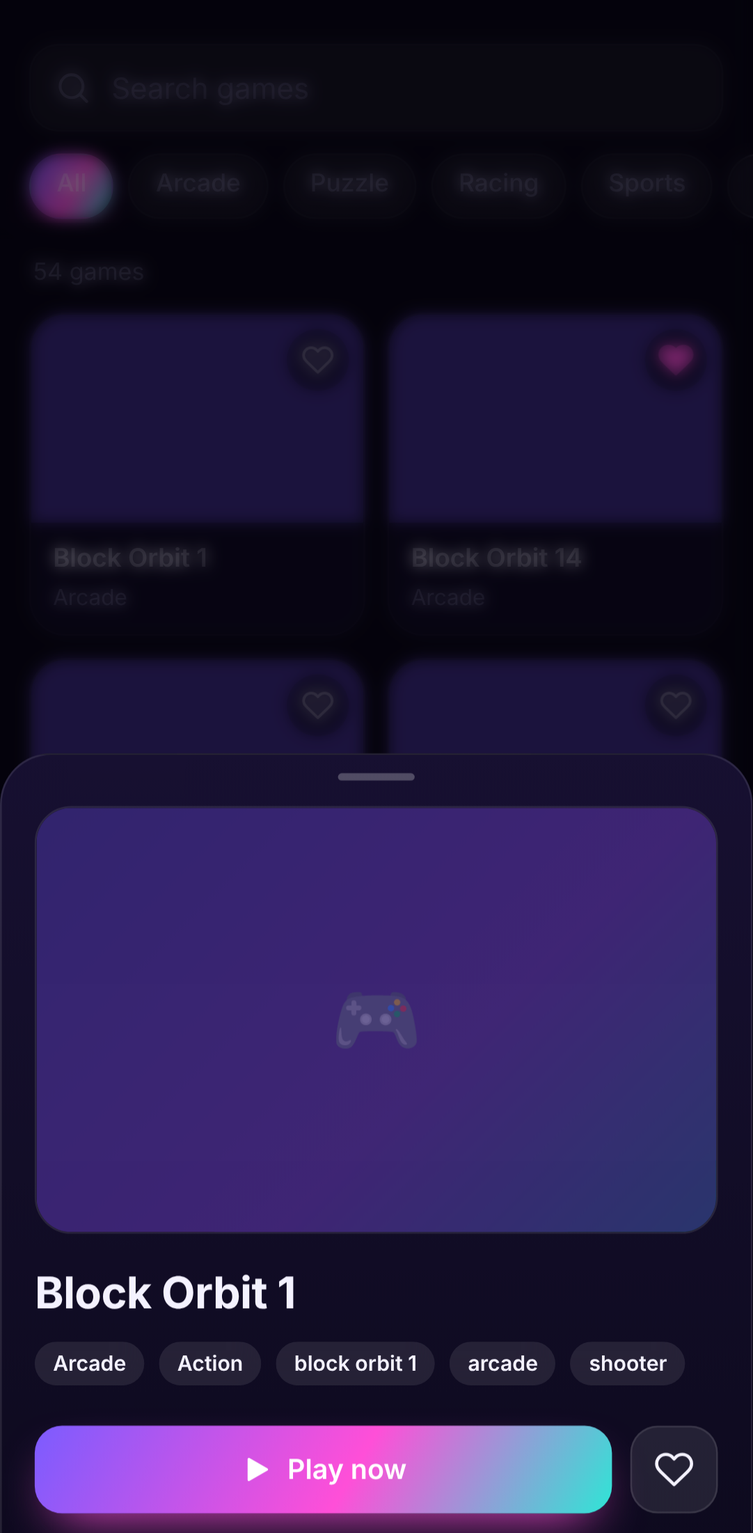
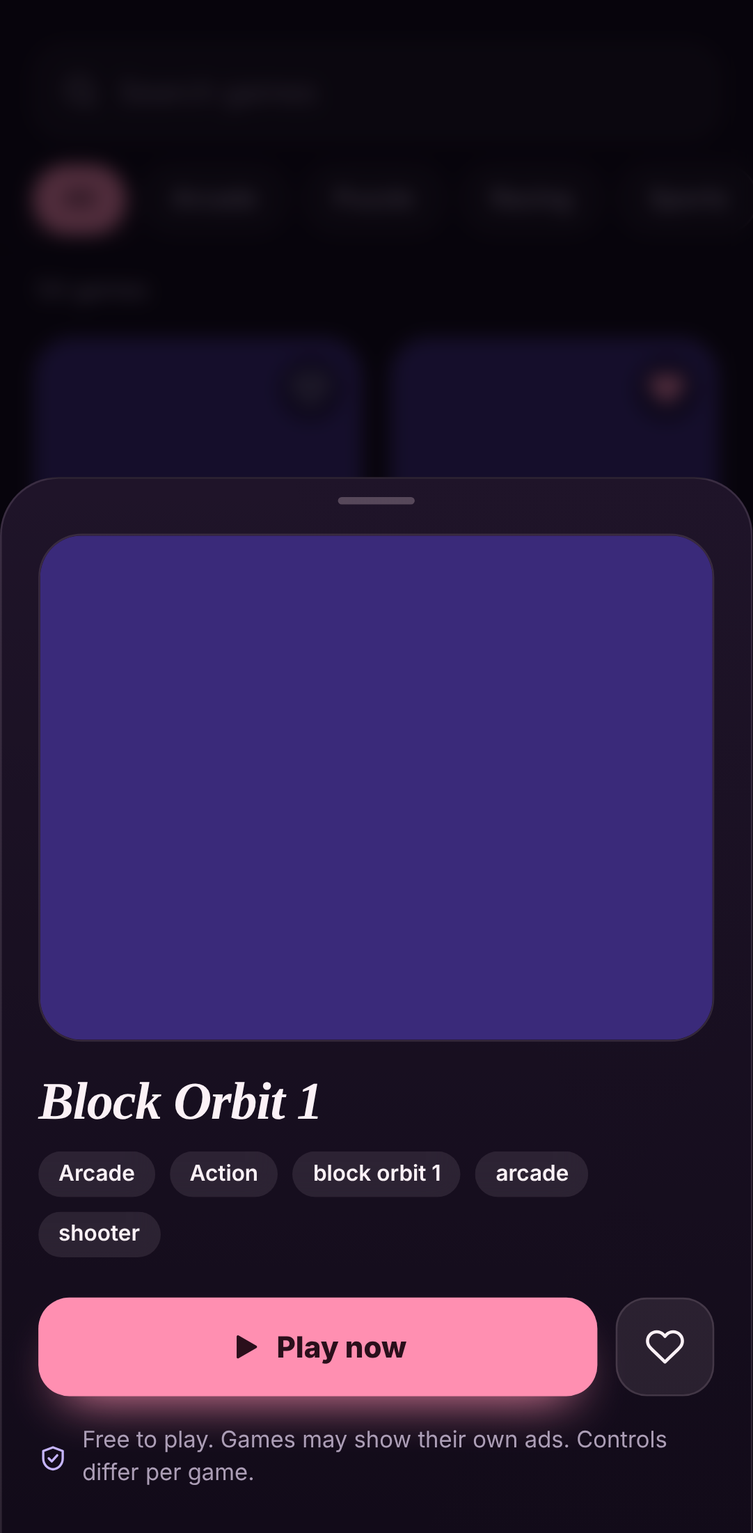
Ella Gaming Mini App: new look (aubergine + rose quartz, serif italic titles, poster-style Featured cards, floating nav, per-category hues); tests pin verified_only policy
Claude-Session: https://claude.ai/code/session_013hT9kj3tvig69JEjfi7Dq2

diff --git a/ella_gaming/web/css/app.css b/ella_gaming/web/css/app.css
@@ -1,187 +1,192 @@
-/* Ella Gaming - original design. Dark, aurora gradients, glass surfaces. No inline styles are used (strict CSP). */
+/* Ella Gaming - aubergine & rose quartz. Dark plum ground, one blush accent, serif italic for the voice. No inline styles are used (strict CSP). */
 :root{
-  --bg:#07060f; --bg2:#0d0a1d; --surface:rgba(255,255,255,.055); --surface2:rgba(255,255,255,.09); --line:rgba(255,255,255,.1);
-  --text:#f4f2ff; --muted:#a49fc4; --violet:#7c5cff; --magenta:#ff4fd8; --cyan:#2ee6d6; --danger:#ff6b81; --ok:#46e6a0;
-  --grad:linear-gradient(120deg,var(--violet),var(--magenta) 55%,var(--cyan));
-  --radius:20px; --nav-h:68px;
+  --bg:#0c0811; --bg2:#160f1f; --surface:rgba(255,232,243,.05); --surface2:rgba(255,232,243,.095); --line:rgba(255,226,240,.12);
+  --text:#fbf1f6; --muted:#ac9eb6; --rose:#ff8fb1; --rose-d:#2a0f1b; --peach:#ffcfa0; --lilac:#c6b5ff; --danger:#ff6b81; --ok:#6fe3b0;
+  --radius:22px; --nav-h:64px;
   --safe-t:max(env(safe-area-inset-top,0px),var(--tg-safe-area-inset-top,0px) + var(--tg-content-safe-area-inset-top,0px));
   --safe-b:max(env(safe-area-inset-bottom,0px),var(--tg-safe-area-inset-bottom,0px));
-  --display:'Sora',system-ui,-apple-system,'Segoe UI',Roboto,sans-serif; --body:'Inter',system-ui,-apple-system,'Segoe UI',Roboto,sans-serif;
+  --display:'Fraunces',Georgia,'Times New Roman',serif; --body:'Manrope',system-ui,-apple-system,'Segoe UI',Roboto,sans-serif;
 }
 *{box-sizing:border-box;-webkit-tap-highlight-color:transparent}
-html,body{margin:0;background:var(--bg);color:var(--text);font-family:var(--body);font-size:15px;line-height:1.45;overscroll-behavior:none}
+html,body{margin:0;background:var(--bg);color:var(--text);font-family:var(--body);font-size:15px;line-height:1.5;overscroll-behavior:none}
 body{min-height:100dvh;overflow-x:hidden}
 button{font:inherit;color:inherit;background:none;border:0;padding:0;cursor:pointer;touch-action:manipulation}
 input{font:inherit;color:inherit}
 img{display:block}
 [hidden]{display:none!important}
-h1,h2,h3{font-family:var(--display);margin:0;letter-spacing:-.01em}
-:focus-visible{outline:2px solid var(--cyan);outline-offset:2px;border-radius:10px}
+h1,h2,h3{font-family:var(--display);margin:0;letter-spacing:-.015em;font-weight:600}
+:focus-visible{outline:2px solid var(--rose);outline-offset:2px;border-radius:10px}
 
-.aurora{position:fixed;inset:0;z-index:-1;overflow:hidden;background:radial-gradient(120% 80% at 50% -10%,#1a1140 0,var(--bg) 60%)}
-.aurora i{position:absolute;width:70vmax;height:70vmax;border-radius:50%;filter:blur(90px);opacity:.28;animation:drift 22s ease-in-out infinite alternate}
-.aurora i:nth-child(1){background:var(--violet);left:-30vmax;top:-25vmax}
-.aurora i:nth-child(2){background:var(--magenta);right:-40vmax;top:20vmax;opacity:.16;animation-duration:28s}
-.aurora i:nth-child(3){background:var(--cyan);left:-20vmax;bottom:-45vmax;opacity:.13;animation-duration:34s}
-@keyframes drift{to{transform:translate3d(6vmax,4vmax,0) scale(1.12)}}
+/* two still glows behind everything - no animation, nothing competing with the games */
+.aurora{position:fixed;inset:0;z-index:-1;overflow:hidden;background:var(--bg)}
+.aurora i{position:absolute;border-radius:50%;filter:blur(110px)}
+.aurora i:nth-child(1){width:80vmax;height:80vmax;right:-45vmax;top:-40vmax;background:#ff8fb1;opacity:.17}
+.aurora i:nth-child(2){width:70vmax;height:70vmax;left:-45vmax;bottom:-40vmax;background:#9a7bff;opacity:.13}
+.aurora i:nth-child(3){display:none}
 
-.view{padding:calc(var(--safe-t) + 14px) 16px calc(var(--nav-h) + var(--safe-b) + 28px);max-width:760px;margin:0 auto;animation:rise .45s cubic-bezier(.2,.8,.2,1)}
-@keyframes rise{from{opacity:0;transform:translateY(10px)}}
+.view{padding:calc(var(--safe-t) + 14px) 18px calc(var(--nav-h) + var(--safe-b) + 44px);max-width:760px;margin:0 auto;animation:fade .3s ease-out}
+@keyframes fade{from{opacity:0}}
 
 /* ---------- top bar & greeting */
-.topbar{display:flex;align-items:center;justify-content:space-between;gap:12px;margin-bottom:18px}
-.brand{display:flex;align-items:center;gap:10px;font-family:var(--display);font-weight:700;font-size:17px}
+.topbar{display:flex;align-items:center;justify-content:space-between;gap:12px;margin-bottom:22px}
+.brand{display:flex;align-items:center;gap:10px;font-family:var(--display);font-style:italic;font-weight:600;font-size:21px;letter-spacing:-.01em}
 .brand img{width:34px;height:34px;border-radius:11px}
-.brand b{background:var(--grad);-webkit-background-clip:text;background-clip:text;color:transparent}
-.avatar{width:40px;height:40px;border-radius:50%;object-fit:cover;display:grid;place-items:center;font-family:var(--display);font-weight:700;background:var(--grad);color:#fff;border:2px solid rgba(255,255,255,.18);overflow:hidden;flex:none}
-.avatar.lg{width:92px;height:92px;font-size:34px;border-width:3px}
-.greet small{color:var(--muted);font-size:14px}
-.greet h1{font-size:28px;line-height:1.15;margin-top:2px}
-.greet h1 span{background:var(--grad);-webkit-background-clip:text;background-clip:text;color:transparent}
-.tagline{color:var(--muted);margin:6px 0 16px}
+.brand b{font-weight:600}
+.avatar{width:42px;height:42px;border-radius:50%;object-fit:cover;display:grid;place-items:center;font-family:var(--display);font-weight:700;background:linear-gradient(135deg,var(--rose),var(--peach));color:var(--rose-d);border:2px solid rgba(255,226,240,.3);overflow:hidden;flex:none}
+.avatar.lg{width:96px;height:96px;font-size:36px;border-width:3px}
+.greet small{color:var(--muted);font-size:14px;font-weight:500}
+.greet h1{font-size:38px;line-height:1.08;margin-top:4px;font-style:italic;font-weight:600}
+.greet h1 span{color:var(--text)}
+.tagline{color:var(--muted);margin:8px 0 18px}
 
 .search{position:relative;display:flex;align-items:center}
-.search svg{position:absolute;left:14px;width:20px;height:20px;color:var(--muted);pointer-events:none}
-.search input{width:100%;height:48px;border-radius:16px;border:1px solid var(--line);background:var(--surface);padding:0 44px 0 44px;outline:none;transition:border-color .2s,background .2s,box-shadow .2s;font-size:16px}
-.search input::placeholder{color:#8b86ad}
-.search input:focus{border-color:rgba(124,92,255,.8);background:var(--surface2);box-shadow:0 0 0 4px rgba(124,92,255,.18)}
-.search .clear{position:absolute;right:6px;width:36px;height:36px;display:grid;place-items:center;color:var(--muted)}
+.search svg{position:absolute;left:16px;width:20px;height:20px;color:var(--muted);pointer-events:none}
+.search input{width:100%;height:52px;border-radius:18px;border:1px solid var(--line);background:var(--surface);padding:0 46px;outline:none;transition:border-color .2s,background .2s,box-shadow .2s;font-size:16px}
+.search input::placeholder{color:#8d7f98}
+.search input:focus{border-color:rgba(255,143,177,.75);background:var(--surface2);box-shadow:0 0 0 4px rgba(255,143,177,.15)}
+.search .clear{position:absolute;right:7px;width:38px;height:38px;display:grid;place-items:center;color:var(--muted)}
 .search .clear svg{position:static;width:18px;height:18px}
 
 /* ---------- sections */
-.section{margin-top:26px}
-.sec-head{display:flex;align-items:baseline;justify-content:space-between;margin-bottom:12px}
-.sec-head h2{font-size:18px}
-.sec-head button{color:var(--cyan);font-size:13px;font-weight:600}
-.rail{display:flex;gap:12px;overflow-x:auto;scroll-snap-type:x proximity;margin:0 -16px;padding:2px 16px 6px;scrollbar-width:none}
+.section{margin-top:32px}
+.sec-head{display:flex;align-items:baseline;justify-content:space-between;margin-bottom:14px}
+.sec-head h2{font-size:23px}
+.sec-head button{color:var(--rose);font-size:13.5px;font-weight:700}
+.rail{display:flex;gap:14px;overflow-x:auto;scroll-snap-type:x proximity;margin:0 -18px;padding:2px 18px 8px;scrollbar-width:none}
 .rail::-webkit-scrollbar{display:none}
 .rail>*{scroll-snap-align:start;flex:none}
 
 /* ---------- cards */
 .card{position:relative;display:block;text-align:left;width:100%;border-radius:var(--radius);overflow:hidden;background:var(--bg2);border:1px solid var(--line);transition:transform .18s,border-color .2s,box-shadow .2s}
 .card:active{transform:scale(.97)}
-@media (hover:hover){.card:hover{transform:translateY(-3px);border-color:rgba(255,255,255,.28);box-shadow:0 14px 34px -14px rgba(124,92,255,.6)}}
-.thumb{position:relative;aspect-ratio:16/10;background:linear-gradient(135deg,#251a5a,#4a1d6b 60%,#0e4c55);display:grid;place-items:center;font-size:40px;overflow:hidden}
-.thumb img{position:absolute;inset:0;width:100%;height:100%;object-fit:cover;opacity:0;transition:opacity .35s}
+@media (hover:hover){.card:hover{transform:translateY(-3px);border-color:rgba(255,143,177,.45);box-shadow:0 18px 38px -18px rgba(255,143,177,.55)}}
+.thumb{position:relative;aspect-ratio:4/3;background:linear-gradient(145deg,#2c1a3b,#43203f 55%,#2b2147);display:grid;place-items:center;font-size:42px;overflow:hidden}
+.thumb img{position:absolute;inset:0;width:100%;height:100%;object-fit:cover;opacity:0;transition:opacity .4s}
 .thumb img.ready{opacity:1}
-.card .meta{padding:10px 12px 12px}
-.card .name{font-family:var(--display);font-weight:600;font-size:14px;white-space:nowrap;overflow:hidden;text-overflow:ellipsis}
-.card .sub{color:var(--muted);font-size:12px;margin-top:2px;white-space:nowrap;overflow:hidden;text-overflow:ellipsis}
-.card.sm{width:150px}
-.card.feat{width:min(78vw,320px)}
-.card.feat .thumb{aspect-ratio:16/10}
-.card.feat .shade{position:absolute;inset:0;background:linear-gradient(180deg,transparent 35%,rgba(7,6,15,.92));display:flex;flex-direction:column;justify-content:flex-end;padding:14px}
-.card.feat .name{font-size:18px}
-.card.feat .pill{align-self:flex-start;margin-bottom:8px}
-.pill{display:inline-flex;align-items:center;gap:6px;height:24px;padding:0 10px;border-radius:99px;font-size:11.5px;font-weight:600;background:rgba(255,255,255,.14);backdrop-filter:blur(8px);-webkit-backdrop-filter:blur(8px)}
-.heart{position:absolute;top:8px;right:8px;width:34px;height:34px;border-radius:50%;display:grid;place-items:center;background:rgba(7,6,15,.55);backdrop-filter:blur(8px);-webkit-backdrop-filter:blur(8px);color:#fff;z-index:2}
+.card .meta{padding:11px 14px 14px}
+.card .name{font-family:var(--display);font-weight:600;font-size:15px;white-space:nowrap;overflow:hidden;text-overflow:ellipsis}
+.card .sub{color:var(--muted);font-size:12.5px;margin-top:2px;white-space:nowrap;overflow:hidden;text-overflow:ellipsis}
+.card.sm{width:158px}
+/* featured = the poster: the one big, loud thing on the page */
+.card.feat{width:min(80vw,330px);border-radius:28px;border-color:rgba(255,226,240,.18);box-shadow:0 24px 50px -26px rgba(255,143,177,.45)}
+.card.feat .thumb{aspect-ratio:4/5}
+.card.feat .shade{position:absolute;inset:0;background:linear-gradient(180deg,rgba(12,8,17,0) 38%,rgba(12,8,17,.92) 92%);display:flex;flex-direction:column;justify-content:flex-end;padding:18px;padding-right:76px}
+.card.feat .shade::after{content:"\25B6\FE0E";position:absolute;right:16px;bottom:16px;width:46px;height:46px;border-radius:50%;display:grid;place-items:center;background:var(--rose);color:var(--rose-d);font-size:15px;padding-left:2px;box-shadow:0 10px 24px -8px rgba(255,143,177,.9)}
+.card.feat .name{font-size:23px;line-height:1.15;font-style:italic;white-space:normal;display:-webkit-box;-webkit-line-clamp:2;-webkit-box-orient:vertical}
+.card.feat .pill{align-self:flex-start;margin-bottom:10px}
+.pill{display:inline-flex;align-items:center;gap:6px;height:25px;padding:0 11px;border-radius:99px;font-size:12px;font-weight:600;background:rgba(255,232,243,.14);backdrop-filter:blur(8px);-webkit-backdrop-filter:blur(8px)}
+.heart{position:absolute;top:10px;right:10px;width:36px;height:36px;border-radius:50%;display:grid;place-items:center;background:rgba(12,8,17,.5);backdrop-filter:blur(8px);-webkit-backdrop-filter:blur(8px);color:#fff;z-index:2}
 .heart svg{width:18px;height:18px;transition:transform .2s}
-.heart[aria-pressed=true]{color:var(--magenta)}
+.heart[aria-pressed=true]{color:var(--rose)}
 .heart[aria-pressed=true] svg{fill:currentColor;transform:scale(1.12)}
-.grid{display:grid;grid-template-columns:repeat(2,1fr);gap:12px}
+.grid{display:grid;grid-template-columns:repeat(2,minmax(0,1fr));gap:14px}
 @media (min-width:560px){.grid{grid-template-columns:repeat(3,1fr)}}
 
-/* ---------- categories */
-.cats{display:grid;grid-template-columns:repeat(3,1fr);gap:10px}
-.cat{display:flex;flex-direction:column;align-items:flex-start;gap:8px;padding:12px;border-radius:18px;background:var(--surface);border:1px solid var(--line);text-align:left;transition:transform .18s,background .2s}
-.cat:active{transform:scale(.96)}
-.cat .ico{width:36px;height:36px;border-radius:12px;display:grid;place-items:center;background:var(--grad);color:#fff}
-.cat .ico svg{width:20px;height:20px}
-.cat b{font-family:var(--display);font-size:13px;font-weight:600}
-.cat small{color:var(--muted);font-size:11.5px;margin-top:-6px}
-.chips{display:flex;gap:8px;overflow-x:auto;scrollbar-width:none;margin:0 -16px;padding:2px 16px}
+/* ---------- categories: each one gets its own quiet hue */
+.cats{display:grid;grid-template-columns:repeat(2,minmax(0,1fr));gap:10px}
+.cat{--h:340;display:flex;align-items:center;gap:12px;padding:12px 14px;border-radius:20px;background:var(--surface);border:1px solid var(--line);text-align:left;transition:transform .18s,background .2s}
+.cat:nth-child(12n+2){--h:28}.cat:nth-child(12n+3){--h:48}.cat:nth-child(12n+4){--h:150}.cat:nth-child(12n+5){--h:190}.cat:nth-child(12n+6){--h:215}
+.cat:nth-child(12n+7){--h:258}.cat:nth-child(12n+8){--h:285}.cat:nth-child(12n+9){--h:310}.cat:nth-child(12n+10){--h:8}.cat:nth-child(12n+11){--h:100}.cat:nth-child(12n+12){--h:172}
+.cat:active{transform:scale(.97)}
+@media (hover:hover){.cat:hover{background:var(--surface2)}}
+.cat .ico{width:42px;height:42px;border-radius:14px;display:grid;place-items:center;flex:none;background:hsl(var(--h) 90% 75% / .16);color:hsl(var(--h) 95% 82%)}
+.cat .ico svg{width:21px;height:21px}
+.cat .txt{min-width:0;flex:1}
+.cat b{display:block;white-space:nowrap;overflow:hidden;text-overflow:ellipsis;font-family:var(--display);font-size:15px;font-weight:600;line-height:1.2}
+.cat small{display:block;color:var(--muted);font-size:12px}
+.chips{display:flex;gap:8px;overflow-x:auto;scrollbar-width:none;margin:0 -18px;padding:2px 18px}
 .chips::-webkit-scrollbar{display:none}
-.chip{flex:none;height:36px;padding:0 14px;border-radius:99px;border:1px solid var(--line);background:var(--surface);font-size:13.5px;font-weight:500;color:var(--muted);transition:all .2s;white-space:nowrap}
-.chip[aria-pressed=true]{background:var(--grad);color:#fff;border-color:transparent;box-shadow:0 8px 22px -10px var(--magenta)}
-.sticky{position:sticky;top:0;z-index:5;margin:0 -16px;padding:calc(var(--safe-t) + 10px) 16px 12px;background:linear-gradient(var(--bg) 70%,rgba(7,6,15,0))}
-.sticky .chips{margin-top:10px}
-.count{color:var(--muted);font-size:13px;margin:6px 2px 12px}
-.notice{margin:0 0 12px;padding:10px 14px;border-radius:14px;background:rgba(124,92,255,.14);border:1px solid rgba(124,92,255,.35);font-size:13px;color:#d9d2ff}
+.chip{flex:none;height:38px;padding:0 16px;border-radius:99px;border:1px solid var(--line);background:var(--surface);font-size:13.5px;font-weight:600;color:var(--muted);transition:all .2s;white-space:nowrap}
+.chip[aria-pressed=true]{background:var(--rose);color:var(--rose-d);border-color:transparent;box-shadow:0 8px 22px -10px var(--rose)}
+.sticky{position:sticky;top:0;z-index:5;margin:0 -18px;padding:calc(var(--safe-t) + 10px) 18px 14px;background:linear-gradient(var(--bg) 72%,rgba(12,8,17,0))}
+.sticky .chips{margin-top:12px}
+.count{color:var(--muted);font-size:13px;margin:6px 2px 14px}
+.notice{margin:0 0 14px;padding:11px 15px;border-radius:16px;background:rgba(255,143,177,.1);border:1px solid rgba(255,143,177,.3);font-size:13px;color:#ffd7e4}
 
 /* ---------- states */
-.skel{position:relative;overflow:hidden;background:var(--surface);border-radius:var(--radius);aspect-ratio:16/12}
-.skel::after{content:"";position:absolute;inset:0;background:linear-gradient(100deg,transparent 30%,rgba(255,255,255,.09) 50%,transparent 70%);transform:translateX(-100%);animation:shimmer 1.3s infinite}
+.skel{position:relative;overflow:hidden;background:var(--surface);border-radius:var(--radius);aspect-ratio:4/3.4}
+.skel::after{content:"";position:absolute;inset:0;background:linear-gradient(100deg,transparent 30%,rgba(255,232,243,.08) 50%,transparent 70%);transform:translateX(-100%);animation:shimmer 1.3s infinite}
 @keyframes shimmer{to{transform:translateX(100%)}}
-.state{display:flex;flex-direction:column;align-items:center;text-align:center;gap:10px;padding:42px 20px;color:var(--muted)}
-.state svg{width:44px;height:44px;color:var(--violet)}
-.state h3{color:var(--text);font-size:18px}
+.state{display:flex;flex-direction:column;align-items:center;text-align:center;gap:10px;padding:44px 20px;color:var(--muted)}
+.state svg{width:44px;height:44px;color:var(--rose)}
+.state h3{color:var(--text);font-size:21px}
 .state p{margin:0;max-width:300px}
-.empty-card{padding:18px;border-radius:var(--radius);border:1px dashed rgba(255,255,255,.2);color:var(--muted);font-size:14px;display:flex;gap:12px;align-items:center}
-.empty-card svg{width:26px;height:26px;flex:none;color:var(--magenta)}
-.btn{display:inline-flex;align-items:center;justify-content:center;gap:8px;height:48px;padding:0 22px;border-radius:15px;font-family:var(--display);font-weight:600;font-size:15px;background:var(--grad);color:#fff;box-shadow:0 12px 28px -12px var(--magenta);transition:transform .15s,filter .2s}
+.empty-card{padding:18px;border-radius:var(--radius);border:1px dashed rgba(255,226,240,.22);color:var(--muted);font-size:14px;display:flex;gap:12px;align-items:center}
+.empty-card svg{width:26px;height:26px;flex:none;color:var(--rose)}
+.btn{display:inline-flex;align-items:center;justify-content:center;gap:8px;height:50px;padding:0 24px;border-radius:17px;font-family:var(--body);font-weight:800;font-size:15px;background:var(--rose);color:var(--rose-d);box-shadow:0 14px 28px -14px var(--rose);transition:transform .15s,filter .2s}
 .btn:active{transform:scale(.97)}
-.btn.ghost{background:var(--surface2);box-shadow:none;border:1px solid var(--line)}
+.btn:disabled{opacity:.55;box-shadow:none}
+.btn.ghost{background:var(--surface2);color:var(--text);box-shadow:none;border:1px solid var(--line)}
 .btn svg{width:18px;height:18px}
 .btn.block{width:100%}
 
-/* ---------- navigation */
-.nav{position:fixed;left:0;right:0;bottom:0;z-index:20;display:flex;justify-content:space-around;align-items:center;height:calc(var(--nav-h) + var(--safe-b));padding:6px 14px var(--safe-b);background:rgba(10,8,24,.78);backdrop-filter:blur(20px) saturate(1.4);-webkit-backdrop-filter:blur(20px) saturate(1.4);border-top:1px solid var(--line)}
-.nav-btn{flex:1;max-width:160px;height:54px;border-radius:16px;display:flex;flex-direction:column;align-items:center;justify-content:center;gap:3px;color:var(--muted);font-size:11.5px;font-weight:600;transition:color .2s}
-.nav-btn svg{width:23px;height:23px;transition:transform .25s}
-.nav-btn[aria-current=page]{color:#fff}
-.nav-btn[aria-current=page] svg{transform:translateY(-1px) scale(1.1);color:var(--magenta);filter:drop-shadow(0 0 8px rgba(255,79,216,.6))}
+/* ---------- navigation: a floating pill */
+.nav{position:fixed;left:16px;right:16px;bottom:calc(10px + var(--safe-b));z-index:20;max-width:420px;margin:0 auto;display:flex;justify-content:space-between;align-items:center;height:var(--nav-h);padding:6px;border-radius:26px;background:rgba(22,14,31,.82);backdrop-filter:blur(22px) saturate(1.5);-webkit-backdrop-filter:blur(22px) saturate(1.5);border:1px solid var(--line);box-shadow:0 18px 40px -12px rgba(0,0,0,.7)}
+.nav-btn{flex:1;height:52px;border-radius:20px;display:flex;align-items:center;justify-content:center;gap:7px;color:var(--muted);font-size:13px;font-weight:700;transition:background .25s,color .25s}
+.nav-btn svg{width:22px;height:22px}
+.nav-btn[aria-current=page]{color:var(--rose-d);background:var(--rose)}
 
 /* ---------- sheet */
-.backdrop{position:fixed;inset:0;z-index:40;background:rgba(3,2,10,.66);backdrop-filter:blur(4px);-webkit-backdrop-filter:blur(4px);animation:fade .25s}
-.sheet{position:fixed;left:0;right:0;bottom:0;z-index:41;max-width:560px;margin:0 auto;border-radius:28px 28px 0 0;background:linear-gradient(180deg,#171031,#0d0a1d);border:1px solid var(--line);border-bottom:0;padding:10px 18px calc(20px + var(--safe-b));animation:slide .32s cubic-bezier(.2,.8,.2,1);max-height:92dvh;overflow:auto}
-.sheet .grab{width:42px;height:4px;border-radius:9px;background:rgba(255,255,255,.25);margin:0 auto 14px}
-.sheet .hero{border-radius:20px;overflow:hidden;border:1px solid var(--line)}
-.sheet h2{font-size:24px;margin:16px 0 8px}
+.backdrop{position:fixed;inset:0;z-index:40;background:rgba(6,3,10,.7);backdrop-filter:blur(5px);-webkit-backdrop-filter:blur(5px);animation:fade .25s}
+.sheet{position:fixed;left:0;right:0;bottom:0;z-index:41;max-width:560px;margin:0 auto;border-radius:32px 32px 0 0;background:linear-gradient(180deg,#1f1429,#120b19);border:1px solid var(--line);border-bottom:0;padding:10px 20px calc(22px + var(--safe-b));animation:slide .34s cubic-bezier(.2,.8,.2,1);max-height:92dvh;overflow:auto}
+.sheet .grab{width:42px;height:4px;border-radius:9px;background:rgba(255,226,240,.25);margin:0 auto 16px}
+.sheet .hero{border-radius:24px;overflow:hidden;border:1px solid var(--line)}
+.sheet h2{font-size:29px;font-style:italic;margin:18px 0 10px;line-height:1.1}
 .tags{display:flex;gap:8px;flex-wrap:wrap}
 .tags .pill{background:var(--surface2)}
-.sheet .actions{display:flex;gap:10px;margin-top:20px}
-.sheet .actions .btn:first-child{flex:1}
-.sheet .fine{color:var(--muted);font-size:12.5px;margin:14px 0 0;display:flex;align-items:center;gap:8px}
-.sheet .fine svg{width:16px;height:16px;color:var(--ok);flex:none}
+.sheet .actions{display:flex;gap:10px;margin-top:22px}
+.sheet .actions .btn:first-child{flex:1;height:54px;font-size:16px}
+.sheet .fine{color:var(--muted);font-size:12.5px;margin:16px 0 0;display:flex;align-items:center;gap:8px}
+.sheet .fine svg{width:16px;height:16px;color:var(--lilac);flex:none}
 @keyframes slide{from{transform:translateY(100%)}}
-@keyframes fade{from{opacity:0}}
-.sq{width:48px;height:48px;border-radius:15px;display:grid;place-items:center;background:var(--surface2);border:1px solid var(--line);flex:none}
+.sq{width:54px;height:54px;border-radius:17px;display:grid;place-items:center;background:var(--surface2);border:1px solid var(--line);flex:none}
 .sq svg{width:22px;height:22px}
-.sq[aria-pressed=true]{color:var(--magenta)}
+.sq[aria-pressed=true]{color:var(--rose)}
 .sq[aria-pressed=true] svg{fill:currentColor}
 
 /* ---------- player */
-.player{position:fixed;inset:0;z-index:60;background:#05040b;display:flex;flex-direction:column;animation:fade .2s}
-.p-bar{display:flex;align-items:center;gap:8px;padding:calc(var(--safe-t) + 8px) 10px 8px;background:rgba(10,8,24,.92);border-bottom:1px solid var(--line)}
-.p-bar .back{display:flex;align-items:center;gap:2px;height:40px;padding:0 12px 0 6px;border-radius:12px;background:var(--surface2);font-weight:600;font-size:14px}
+.player{position:fixed;inset:0;z-index:60;background:#07040b;display:flex;flex-direction:column;animation:fade .2s}
+.p-bar{display:flex;align-items:center;gap:8px;padding:calc(var(--safe-t) + 8px) 10px 8px;background:rgba(18,11,25,.94);border-bottom:1px solid var(--line)}
+.p-bar .back{display:flex;align-items:center;gap:2px;height:40px;padding:0 14px 0 6px;border-radius:13px;background:var(--surface2);font-weight:700;font-size:14px}
 .p-bar .back svg{width:20px;height:20px}
-.p-title{flex:1;min-width:0;font-family:var(--display);font-weight:600;font-size:14px;white-space:nowrap;overflow:hidden;text-overflow:ellipsis;text-align:center}
-.p-bar .ib{width:40px;height:40px;border-radius:12px;display:grid;place-items:center;background:var(--surface2)}
+.p-title{flex:1;min-width:0;font-family:var(--display);font-style:italic;font-weight:600;font-size:16px;white-space:nowrap;overflow:hidden;text-overflow:ellipsis;text-align:center}
+.p-bar .ib{width:40px;height:40px;border-radius:13px;display:grid;place-items:center;background:var(--surface2)}
 .p-bar .ib svg{width:19px;height:19px}
 .p-stage{position:relative;flex:1;min-height:0;background:#000}
 .p-stage iframe{position:absolute;inset:0;width:100%;height:100%;border:0;background:#000;touch-action:none}
-.p-cover{position:absolute;inset:0;z-index:2;display:flex;flex-direction:column;align-items:center;justify-content:center;gap:14px;text-align:center;padding:24px;background:radial-gradient(100% 70% at 50% 30%,#1a1140,#05040b)}
+.p-cover{position:absolute;inset:0;z-index:2;display:flex;flex-direction:column;align-items:center;justify-content:center;gap:14px;text-align:center;padding:24px;background:radial-gradient(100% 70% at 50% 30%,#2a1738,#07040b)}
 .p-cover p{margin:0;color:var(--muted);max-width:300px}
-.p-cover h3{font-size:20px}
+.p-cover h3{font-size:22px;font-style:italic}
 .p-cover svg.big{width:48px;height:48px;color:var(--danger)}
-.spinner{width:46px;height:46px;border-radius:50%;border:4px solid rgba(255,255,255,.12);border-top-color:var(--magenta);border-right-color:var(--violet);animation:spin .9s linear infinite}
+.spinner{width:46px;height:46px;border-radius:50%;border:4px solid rgba(255,226,240,.12);border-top-color:var(--rose);border-right-color:var(--lilac);animation:spin .9s linear infinite}
 @keyframes spin{to{transform:rotate(360deg)}}
-.offline{position:absolute;top:0;left:0;right:0;z-index:3;padding:10px 14px;background:rgba(255,107,129,.95);color:#2a0710;font-weight:600;font-size:13px;display:flex;align-items:center;justify-content:space-between;gap:10px}
+.offline{position:absolute;top:0;left:0;right:0;z-index:3;padding:10px 14px;background:rgba(255,107,129,.95);color:#2a0710;font-weight:700;font-size:13px;display:flex;align-items:center;justify-content:space-between;gap:10px}
 .offline button{height:30px;padding:0 12px;border-radius:9px;background:#2a0710;color:#fff;font-size:12.5px}
 
 /* ---------- profile */
-.p-head{display:flex;flex-direction:column;align-items:center;text-align:center;gap:6px;padding:10px 0 4px}
-.p-head h1{font-size:24px;margin-top:8px}
+.p-head{display:flex;flex-direction:column;align-items:center;text-align:center;gap:6px;padding:12px 0 4px}
+.p-head h1{font-size:30px;margin-top:10px;font-style:italic}
 .p-head .handle{color:var(--muted)}
-.field{display:flex;gap:10px;margin-top:14px}
-.field input{flex:1;height:46px;border-radius:14px;border:1px solid var(--line);background:var(--surface);padding:0 14px;outline:none;font-size:16px}
-.field input:focus{border-color:rgba(124,92,255,.8)}
-.field .btn{height:46px;padding:0 18px}
-.list{display:flex;flex-direction:column;gap:8px}
-.row{display:flex;align-items:center;gap:12px;padding:8px;border-radius:16px;background:var(--surface);border:1px solid var(--line);text-align:left;width:100%}
-.row .t{width:64px;aspect-ratio:16/10;border-radius:10px;overflow:hidden;flex:none;position:relative;background:linear-gradient(135deg,#251a5a,#4a1d6b);display:grid;place-items:center}
+.field{display:flex;gap:10px;margin-top:18px}
+.field input{flex:1;height:48px;border-radius:16px;border:1px solid var(--line);background:var(--surface);padding:0 16px;outline:none;font-size:16px}
+.field input:focus{border-color:rgba(255,143,177,.75)}
+.field .btn{height:48px;padding:0 20px}
+.list{display:flex;flex-direction:column;gap:10px}
+.row{display:flex;align-items:center;gap:12px;padding:9px;border-radius:18px;background:var(--surface);border:1px solid var(--line);text-align:left;width:100%}
+.row .t{width:68px;aspect-ratio:4/3;border-radius:12px;overflow:hidden;flex:none;position:relative;background:linear-gradient(145deg,#2c1a3b,#43203f);display:grid;place-items:center}
 .row .t img{position:absolute;inset:0;width:100%;height:100%;object-fit:cover}
-.row b{display:block;font-family:var(--display);font-size:14px;font-weight:600}
+.row b{display:block;font-family:var(--display);font-size:15px;font-weight:600}
 .row small{color:var(--muted)}
 .row .grow{flex:1;min-width:0}
+.row svg{color:var(--rose)}
 .row.off{opacity:.55}
-.about{margin-top:26px;padding:16px;border-radius:var(--radius);background:var(--surface);border:1px solid var(--line);color:var(--muted);font-size:13.5px}
-.about b{color:var(--text)}
+.about{margin-top:32px;padding:18px;border-radius:var(--radius);background:var(--surface);border:1px solid var(--line);color:var(--muted);font-size:13.5px}
+.about b{color:var(--text);font-family:var(--display);font-style:italic;font-size:15px}
 
-.toast{position:fixed;left:50%;bottom:calc(var(--nav-h) + var(--safe-b) + 16px);transform:translateX(-50%);z-index:90;max-width:86vw;padding:11px 16px;border-radius:14px;background:#221a48;border:1px solid var(--line);box-shadow:0 14px 30px -10px #000;font-size:14px;animation:rise .25s}
+.toast{position:fixed;left:50%;bottom:calc(var(--nav-h) + var(--safe-b) + 24px);transform:translateX(-50%);z-index:90;max-width:86vw;padding:12px 18px;border-radius:16px;background:#2b1a38;border:1px solid var(--line);box-shadow:0 14px 30px -10px #000;font-size:14px;font-weight:600;animation:fade .25s}
 .gate{min-height:100dvh;display:flex;flex-direction:column;align-items:center;justify-content:center;gap:14px;text-align:center;padding:30px}
-.gate img{width:84px;height:84px;border-radius:26px;box-shadow:0 20px 50px -16px var(--magenta)}
-.gate h1{font-size:28px}
+.gate img{width:88px;height:88px;border-radius:28px;box-shadow:0 22px 50px -16px var(--rose)}
+.gate h1{font-size:30px;font-style:italic}
 .gate p{color:var(--muted);max-width:320px;margin:0}
 .sentinel{height:1px}
 .more{display:grid;place-items:center;padding:18px}
@@ -192,5 +197,5 @@ h1,h2,h3{font-family:var(--display);margin:0;letter-spacing:-.01em}
 .card-hit{display:block;width:100%;text-align:left}
 .sec-head .sub{color:var(--muted);font-size:12.5px}
 .actions-row{display:contents}
-.feat-skel{width:min(78vw,320px);flex:none}
+.feat-skel{width:min(80vw,330px);flex:none;aspect-ratio:4/5;border-radius:28px}
 .sheet .tags{min-height:26px}

diff --git a/ella_gaming/web/index.html b/ella_gaming/web/index.html
@@ -3,15 +3,15 @@
 <head>
   <meta charset="utf-8">
   <meta name="viewport" content="width=device-width, initial-scale=1, viewport-fit=cover">
-  <meta name="theme-color" content="#07060f">
+  <meta name="theme-color" content="#0c0811">
   <meta name="color-scheme" content="dark">
   <meta name="referrer" content="strict-origin-when-cross-origin">
   <title>Ella Gaming</title>
   <link rel="icon" href="assets/logo.svg" type="image/svg+xml">
   <link rel="preconnect" href="https://fonts.googleapis.com">
   <link rel="preconnect" href="https://fonts.gstatic.com" crossorigin>
-  <link rel="stylesheet" href="https://fonts.googleapis.com/css2?family=Inter:wght@400;500;600&family=Sora:wght@500;600;700;800&display=swap">
-  <link rel="stylesheet" href="css/app.css?v=1">
+  <link rel="stylesheet" href="https://fonts.googleapis.com/css2?family=Fraunces:ital,opsz,wght@0,9..144,500;0,9..144,600;0,9..144,700;1,9..144,500;1,9..144,600&family=Manrope:wght@400;500;600;700;800&display=swap">
+  <link rel="stylesheet" href="css/app.css?v=3">
   <script src="https://telegram.org/js/telegram-web-app.js"></script>
 </head>
 <body>
@@ -25,6 +25,6 @@
   <div id="overlay-root"></div>
   <div id="toast" class="toast" role="status" aria-live="polite" hidden></div>
   <noscript><p style="padding:24px;color:#fff">Ella Gaming needs JavaScript.</p></noscript>
-  <script type="module" src="js/app.js?v=1"></script>
+  <script type="module" src="js/app.js?v=3"></script>
 </body>
 </html>

diff --git a/ella_gaming/web/js/app.js b/ella_gaming/web/js/app.js
@@ -168,7 +168,7 @@ function homeSections(d) {
   if (d.featured.length) out.push(section("Featured", rail(d.featured, "feat")));
   if (d.recent.length) out.push(section("Continue playing", rail(d.recent, "sm")));
   out.push(section("Categories", h("div", { class: "cats" }, d.categories.filter((c) => c.count > 0).map((c) =>
-    h("button", { class: "cat", onclick: () => goGames({ category: c.id }) }, h("span", { class: "ico" }, icon(c.icon)), h("b", {}, c.name), h("small", {}, `${c.count} games`))))));
+    h("button", { class: "cat", onclick: () => goGames({ category: c.id }) }, h("span", { class: "ico" }, icon(c.icon)), h("span", { class: "txt" }, h("b", {}, c.name), h("small", {}, `${c.count} games`)))))));
   if (d.popular.length) out.push(section("Popular", rail(d.popular, "sm"), h("button", { onclick: () => goGames({}) }, "All games")));
   out.push(section("Favourites", d.favorites.length ? rail(d.favorites, "sm")
     : h("div", { class: "empty-card" }, icon("heart"), h("span", {}, "Tap the heart on any game to keep it here."))));

diff --git a/ella_gaming/web/js/tg.js b/ella_gaming/web/js/tg.js
@@ -12,8 +12,8 @@ export const tg = {
     if (!W) return;
     try { W.ready(); } catch {}
     try { W.expand(); } catch {}
-    try { if (ver("6.1")) { W.setHeaderColor("#07060f"); W.setBackgroundColor("#07060f"); } } catch {}
-    try { if (ver("7.10")) W.setBottomBarColor("#0a0818"); } catch {}
+    try { if (ver("6.1")) { W.setHeaderColor("#0c0811"); W.setBackgroundColor("#0c0811"); } } catch {}
+    try { if (ver("7.10")) W.setBottomBarColor("#160f1f"); } catch {}
   },
   setBack(handler) {
     if (!W || !W.BackButton) return;

diff --git a/ella_gaming/tests/test_e2e.py b/ella_gaming/tests/test_e2e.py
@@ -41,7 +41,7 @@ def stack(tmp_path_factory):
     from ella_server.app import create_app
     up = Srv(fake_upstream.make_app(), free_port()).start()
     os.environ.update({
-        "ELLA_DEV": "1", "ELLA_BOT_TOKEN": BOT_TOKEN, "ELLA_SESSION_SECRET": "s" * 48, "ELLA_DATA_DIR": str(tmp_path_factory.mktemp("e2e")),
+        "ELLA_ADS_POLICY": "verified_only", "ELLA_DEV": "1", "ELLA_BOT_TOKEN": BOT_TOKEN, "ELLA_SESSION_SECRET": "s" * 48, "ELLA_DATA_DIR": str(tmp_path_factory.mktemp("e2e")),
         "ELLA_CATALOGUE_URL": f"{up.url}/api/games.json", "ELLA_EMBED_HOSTS": f"127.0.0.1:{up.port}", "ELLA_SCAN_ON_START": "1",
         "ELLA_SCAN_BROWSER": "0", "ELLA_RATE_IP_PER_MIN": "100000", "ELLA_RATE_AUTH_PER_MIN": "1000", "ELLA_PUBLIC_URL": "http://127.0.0.1"})
     app = create_app(config.load())

diff --git a/ella_gaming/tests/conftest.py b/ella_gaming/tests/conftest.py
@@ -75,7 +75,7 @@ def upstream():
 def settings(upstream, tmp_path):
     from ella_server import config
     os.environ.update({
-        "ELLA_DEV": "1", "ELLA_BOT_TOKEN": BOT_TOKEN, "ELLA_SESSION_SECRET": "s" * 48, "ELLA_DATA_DIR": str(tmp_path),
+        "ELLA_ADS_POLICY": "verified_only", "ELLA_DEV": "1", "ELLA_BOT_TOKEN": BOT_TOKEN, "ELLA_SESSION_SECRET": "s" * 48, "ELLA_DATA_DIR": str(tmp_path),
         "ELLA_CATALOGUE_URL": f"{upstream.url}/api/games.json", "ELLA_EMBED_HOSTS": f"127.0.0.1:{upstream.port}",
         "ELLA_SCAN_ON_START": "1", "ELLA_SCAN_BROWSER": "0", "ELLA_ADMIN_IDS": "1001", "ELLA_RATE_AUTH_PER_MIN": "1000",
         "ELLA_RATE_IP_PER_MIN": "100000", "ELLA_PUBLIC_URL": "http://127.0.0.1",
